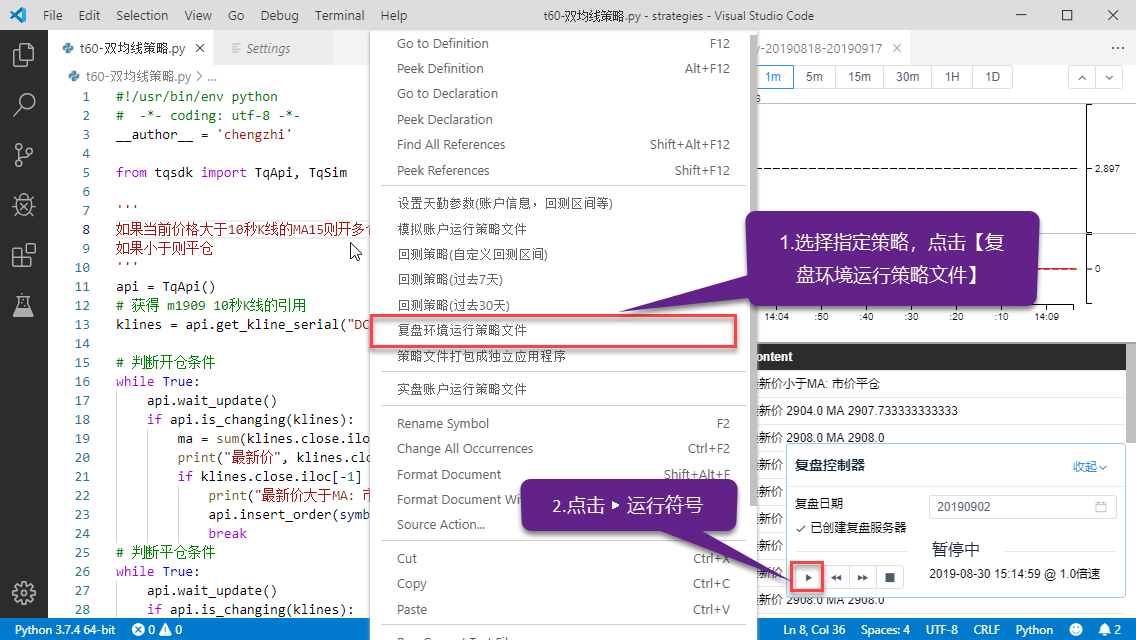
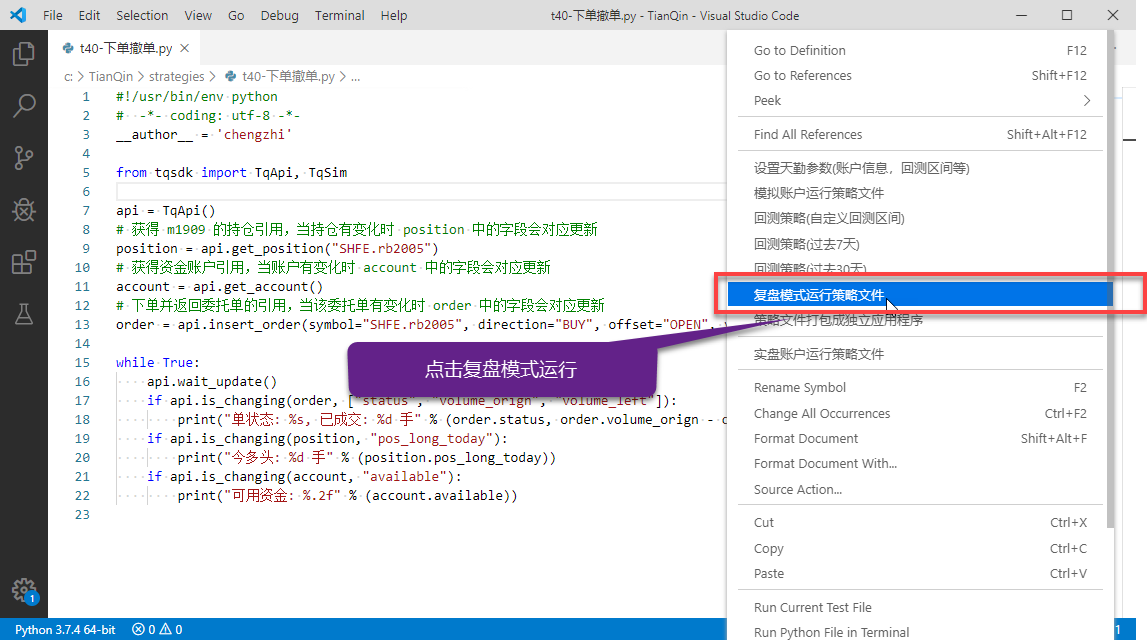
docs:回测资金字段等文档更新

diff --git a/doc/devtools/vscode.rst b/doc/devtools/vscode.rst
@@ -29,7 +29,7 @@
 
 .. figure:: ../images/vscode_click_tianqinlianghua.png
 
-祝贺你， Vs Code插件已经安装配置完毕，可以开始使用了
+祝贺你， Vs Code插件已经安装配置完毕，可以开始使用了, 程序运行后会在右侧自动显示图表
 
 
 Vs Code插件策略运行
@@ -77,17 +77,18 @@ Vs Code插件回测策略
 
 Vs Code插件复盘行情
 ----------------------------------------------------
-在Vs Code中提供和天勤终端一致的历史复盘功能，只需点击右下角【复盘控制器 展开】即可
-
-.. figure:: ../images/vscode_repaly.png
-
-打开复盘，依次点击日期框，选择历史复盘具体日期，然后点击确定，历史复盘环境即开始创建
+在Vs Code中提供和 TqSdk 中一样的复盘功能，首先右键进入天勤参数中选择复盘的具体日期
 
 .. figure:: ../images/vscode_setting_config.png
 
-复盘环境创建完成之后，复盘状态会显示为暂停中，这时选择需要在复盘环境中运行的策略，右键点击【复盘环境运行策略文件】
+复盘具体日期选择完毕后，右键选择 【复盘模式运行策略文件】
 
 .. figure:: ../images/vscode_run_replay.png
+
+图形界面上方可以选择暂停，加减速复盘运行
+
+.. figure:: ../images/vscode_replay_speed.png
+
 
 在Vs Code插件中绘图形
 --------------------------------------------------------------------------

diff --git a/doc/usage/backtest.rst b/doc/usage/backtest.rst
@@ -40,7 +40,15 @@
 
 回测时的成交规则和推进
 -------------------------------------------------
-策略回测时使用内置模拟账户 :py:class:`~tqsdk.sim.TqSim` , 撮合成交规则为对价成交. 即限价单的价格达到对手盘价格时判定为成交. 不会出现委托单部分成交的情况.
+策略回测时使用内置模拟账户 :py:class:`~tqsdk.sim.TqSim` , 默认回测资金为1000w , 如果需要修改初始回测资金，只需给 TqSim 传入需要设定的金额即可::
+
+
+  from datetime import date
+  from tqsdk import TqApi, TqSim, TqBacktest
+
+  api = TqApi(TqSim(10000), backtest=TqBacktest(start_dt=date(2018, 5, 1), end_dt=date(2018, 10, 1)))
+
+撮合成交规则为对价成交. 即限价单的价格达到对手盘价格时判定为成交. 不会出现委托单部分成交的情况.
 
 回测时策略程序报单, 会立即做一次成交判定. 
 
